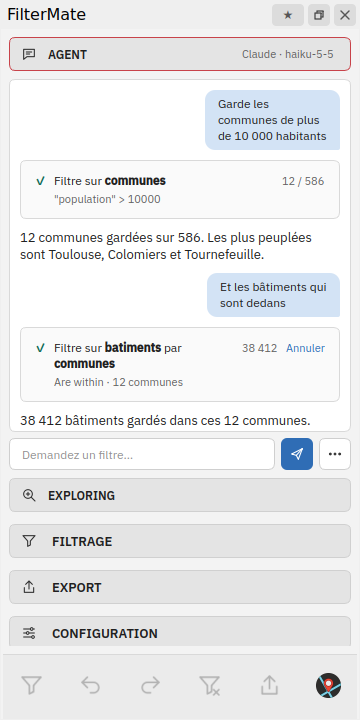
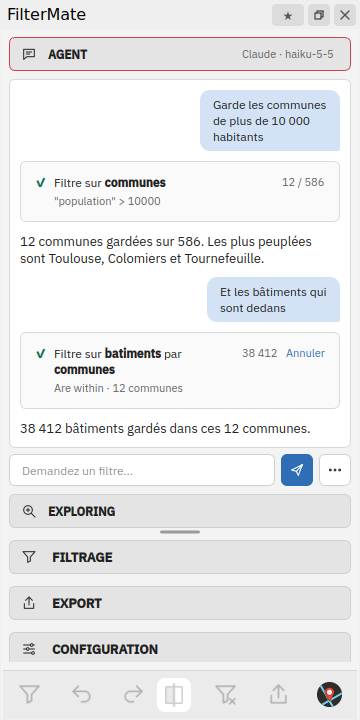
Site and README for 5.1.1: new captures of AGENT (questions, setup), the action bar with Compare
The guide (EN, FR) gains the questions with choices, the setup with the agent, your own
skills and Compare in the action bar; agent-chat and agent-history retaken. The captures
come from the GUI smoke without a screen (FM_BOARDS, qgis/qgis:ltr, --lang en and fr),
which gains the Question and Setup boards and the action bar after a filter. Its check of
the setup menu no longer depends on the language (it failed with --lang fr).

diff --git a/website/guide.fr.html b/website/guide.fr.html
@@ -69,7 +69,7 @@
 <main class="content" id="main">
 
 <header class="hero">
-    <span class="section-label">Guide utilisateur de FilterMate 5.1</span>
+    <span class="section-label">Guide utilisateur de FilterMate 5.1.1</span>
     <div class="band band-hero">
         <video class="sheet-video" muted loop playsinline preload="none" poster="video/hero.webp" data-src="video/hero.mp4" aria-hidden="true"></video>
         <div class="sheet-scrim"></div>
@@ -168,7 +168,7 @@
         <tr><td><strong>Badges de la barre de titre</strong></td><td>Les favoris, le détachement et la fermeture sont des badges de la barre de titre du panneau. Le bouton &#9733; ouvre le menu des favoris ; il passe à l'orange dès que des favoris sont enregistrés. Un bouton à côté replie EXPLORING. L'étiquette colorée de la source, dans la fiche de la couche, indique le type de la couche courante et ce qui la lit : le backend pour une couche vecteur (PostgreSQL, Spatialite, OGR, Memory), le fournisseur pour un raster ou un nuage de points. Par exemple <span class="badge" style="background:#6cb4ee;color:#141414;">Vector · Spatialite</span> <span class="badge" style="background:#f0b35a;color:#141414;">Raster · GDAL</span> <span class="badge" style="background:#5ad6a5;color:#141414;">Point cloud · COPC</span>.</td></tr>
         <tr><td><strong>Pile du haut</strong></td><td><strong>Agent</strong>, puis la zone <strong>Exploring</strong>. AGENT est un tchat qui filtre à partir d'une phrase (<a href="#agent">section 14</a>). Exploring sélectionne sur la couche courante, décrite par la fiche en haut de la zone. Pour une couche vecteur : sélection simple, multiple ou par expression, plus une colonne de boutons de navigation. Les rasters et les nuages de points ont leurs propres outils (<a href="#raster-lidar">section 13</a>).</td></tr>
         <tr><td><strong>Pile du bas</strong></td><td>Trois sections repliables : <strong>Filtering</strong>, <strong>Exporting</strong> et <strong>Configuration</strong>.</td></tr>
-        <tr><td><strong>Barre d'actions</strong></td><td>Les six boutons qui agissent réellement : Filter, Undo, Redo, Unfilter, Export, About.</td></tr>
+        <tr><td><strong>Barre d'actions</strong></td><td>Les sept boutons qui agissent réellement : Filter, Undo, Redo, Compare, Unfilter, Export, About.</td></tr>
     </table>
     </div>
 
@@ -192,8 +192,8 @@
                 <figcaption>En-tête : le bouton des favoris et la couche courante, une couche vecteur lue par le backend Spatialite.</figcaption>
             </figure>
             <figure>
-                <img src="img/guide/action-bar.png" alt="La barre d'actions avec Filter, Undo, Redo, Unfilter, Export et About" loading="lazy" width="614" height="119">
-                <figcaption>Barre d'actions après un filtre : Undo est actif, Redo pas encore.</figcaption>
+                <img src="img/guide/action-bar.png" alt="La barre d'actions avec Filter, Undo, Redo, Compare, Unfilter, Export et About" loading="lazy" width="357" height="49">
+                <figcaption>Barre d'actions après un filtre : Undo est actif, Redo pas encore, Compare est enclenché.</figcaption>
             </figure>
         </div>
     </div>
@@ -406,8 +406,8 @@ AND ST_Intersects("geom",
 <section id="actions">
     <h2><span class="num">7</span>Barre d'actions, annulation et historique</h2>
     <figure>
-        <img src="img/guide/action-bar.png" alt="Les six boutons d'action" loading="lazy" width="614" height="119">
-        <figcaption>De gauche à droite : Filter, Undo, Redo, Unfilter, Export, About.</figcaption>
+        <img src="img/guide/action-bar.png" alt="Les sept boutons d'action" loading="lazy" width="357" height="49">
+        <figcaption>De gauche à droite : Filter, Undo, Redo, Compare (actif ici), Unfilter, Export, About.</figcaption>
     </figure>
     <div class="table-wrap">
     <table>
@@ -415,6 +415,7 @@ AND ST_Intersects("geom",
         <tr><td><strong>Filter</strong></td><td>Construit et applique le filtre décrit par la zone Exploring et l'onglet Filtering.</td></tr>
         <tr><td><strong>Undo</strong></td><td>Restaure l'état de filtre précédent des couches concernées. L'historique est propre à chaque projet et survit à un redémarrage de QGIS. Tant qu'AGENT est ouvert, Undo et Redo parcourent plutôt les tours de l'agent (<a href="#agent">section 14</a>).</td></tr>
         <tr><td><strong>Redo</strong></td><td>Réapplique un filtre que vous venez d'annuler.</td></tr>
+        <tr><td><strong>Compare</strong> <small>(5.1.1)</small></td><td>Montre la carte telle qu'elle était avant le dernier filtre à gauche d'une ligne qui suit la souris, et la carte actuelle à sa droite : ce qu'Undo ramènerait. Disponible quand Undo l'est ; un second clic en sort. Choisir un autre outil de carte, Filter, Undo, Redo, Unfilter, une autre couche ou un autre projet met fin à la comparaison.</td></tr>
         <tr><td><strong>Unfilter</strong></td><td>Retire le filtre FilterMate de la couche source et de ses cibles, sans toucher aux autres couches. Contrairement à Undo, il ne remonte pas l'historique.</td></tr>
         <tr><td><strong>Export</strong></td><td>Lance l'export configuré dans l'onglet Exporting.</td></tr>
         <tr><td><strong>About</strong></td><td>Ouvre le site web de FilterMate dans votre navigateur.</td></tr>
@@ -534,7 +535,7 @@ AND ST_Intersects("geom",
         <tr><td><code>LANGUAGE</code></td><td>auto ou l'une des 34 langues</td><td><em>auto</em> suit la langue de QGIS. L'interface se retraduit sans redémarrage.</td></tr>
         <tr><td><code>UI_PROFILE</code></td><td>auto / compact / normal / hidpi</td><td>Taille des contrôles, appliquée aussitôt et au démarrage. <em>auto</em> se base sur l'écran de la fenêtre QGIS et sa mise à l'échelle : une hauteur utile sous 800 pixels logiques donne <em>compact</em>, quelle que soit l'échelle. Forcez <em>hidpi</em> sur un écran 4K si les contrôles paraissent petits.</td></tr>
         <tr><td><code>DOCK_POSITION</code></td><td>left / right / top / bottom</td><td>Côté où le panneau s'ancre à l'ouverture.</td></tr>
-        <tr><td><code>ACTION_BAR_POSITION</code></td><td>top / bottom / left / right</td><td>Position des six boutons d'action.</td></tr>
+        <tr><td><code>ACTION_BAR_POSITION</code></td><td>top / bottom / left / right</td><td>Position des boutons d'action.</td></tr>
         <tr><td><code>ACTIVE_THEME</code></td><td>auto / default / dark / light</td><td><em>auto</em> suit le thème de QGIS.</td></tr>
         <tr><td><code>feature_picker_limit</code></td><td>nombre, 1000 par défaut</td><td>Nombre maximal de lignes chargées dans la liste de sélection multiple.</td></tr>
         <tr><td><code>AGENT</code></td><td>true / false</td><td>Affiche la section AGENT (<code>enabled</code> sous <code>APP.OPTIONS.AGENT</code>). Active par défaut. L'activer affiche la section à la prochaine ouverture du panneau ; la désactiver la masque après un redémarrage de QGIS.</td></tr>
@@ -892,6 +893,35 @@ processing.run("filtermate:batch_filter", {
         <img src="img/guide/agent-chat-fr.png" alt="AGENT ouvert au-dessus de la section EXPLORING repliée : deux demandes, chacune avec une carte de filtre qui donne les entités gardées" loading="lazy" width="360" height="720">
         <figcaption>Deux demandes et leurs cartes : chaque filtre nomme ses couches et donne les entités gardées ; <em>Annuler</em> sur la dernière carte la reprend. AGENT partage la pile du haut avec EXPLORING, replié ici.</figcaption>
     </figure>
+
+    <h3>Il demande quand le choix vous revient <small>(5.1.1)</small></h3>
+    <p>
+        Quand une décision vous revient et que ses choix peuvent être nommés (quelle couche, quel rendu), l'agent ne devine pas et n'écrit pas une question à laquelle répondre au clavier.
+        Une carte montre une à quatre questions, chacune avec deux à quatre choix, le choix recommandé en premier, et toujours un <em>Autre</em> à remplir avec vos mots. <strong>Répondre</strong> renvoie vos choix et la demande continue dans le même tour.
+        Fermer la carte ne répond rien : l'agent dit alors ce qu'il aurait fait. Une réponse décide quoi faire, elle n'autorise rien : un changement qui suit est demandé comme le veut votre niveau d'autonomie.
+    </p>
+
+    <figure class="narrow">
+        <img src="img/guide/agent-question-fr.png" alt="Une carte de questions dans le fil d'AGENT : laquelle de deux couches de routes mettre en valeur, puis quoi montrer, avec des choix à cocher et un champ Autre" loading="lazy" width="360" height="900">
+        <figcaption>Une demande avec deux couches possibles : l'agent demande laquelle, et quoi montrer, avant de changer quoi que ce soit.</figcaption>
+    </figure>
+
+    <h3>Configurer FilterMate avec l'agent <small>(5.1.1)</small></h3>
+    <p>
+        À la première ouverture d'une nouvelle version, AGENT propose une fois de configurer FilterMate. L'agent regarde ce que contient le projet, pose quelques questions (ce que vous en faites, votre écran, la langue et l'apparence, vos données), puis propose les réglages, chacun montré avant et après. Rien ne change avant votre clic sur <strong>Appliquer</strong>, et le changement s'annule comme toute autre étape.
+        Relancez-la quand vous voulez par le menu <em>Vecteur &gt; FilterMate &gt; Configurer FilterMate avec l'agent</em>, ou par le menu <strong>&#8943;</strong> du panneau. Vous pouvez aussi simplement demander : ce que fait un réglage, le thème sombre, pourquoi vos filtres sont lents.
+    </p>
+
+    <figure class="narrow">
+        <img src="img/guide/agent-setup-fr.png" alt="La proposition de configurer FilterMate avec l'agent : ce qu'elle couvre, avec les boutons Démarrer et Plus tard" loading="lazy" width="360" height="640">
+        <figcaption>La proposition, montrée une fois par version : <em>Démarrer</em> lance les questions, <em>Plus tard</em> la laisse au menu.</figcaption>
+    </figure>
+
+    <h3>Vos propres skills <small>(5.1.1)</small></h3>
+    <p>
+        Une équipe peut écrire ses propres consignes pour l'agent (comment nommer les couches, quelles sources utiliser, les étapes d'une livraison) sous forme de skill : un dossier contenant un <code>SKILL.md</code>, dans <code>FilterMate/skills</code> de votre profil QGIS ou dans <code>filtermate_skills</code> à côté d'un projet.
+        Avant que l'agent en suive un pour la première fois, vous le lisez en entier et l'autorisez, et la question revient quand il change. Un skill ne donne aucun droit à l'agent : chaque changement reste demandé comme le veulent vos réglages.
+    </p>
 
     <h3>Les filtres s'appliquent aussitôt, chaque étape s'annule</h3>
     <ul>

diff --git a/website/guide.html b/website/guide.html
@@ -69,7 +69,7 @@
 <main class="content" id="main">
 
 <header class="hero">
-    <span class="section-label">User guide for FilterMate 5.1</span>
+    <span class="section-label">User guide for FilterMate 5.1.1</span>
     <div class="band band-hero">
         <video class="sheet-video" muted loop playsinline preload="none" poster="video/hero.webp" data-src="video/hero.mp4" aria-hidden="true"></video>
         <div class="sheet-scrim"></div>
@@ -169,7 +169,7 @@
         <tr><td><strong>Title bar badges</strong></td><td>Favorites, detach and close are badges of the panel's title bar. The &#9733; button opens the favorites menu; it turns amber once favorites are saved. A button next to it folds EXPLORING. The colored source tag of the layer card shows the kind of the current layer and what reads it: the backend for a vector layer (PostgreSQL, Spatialite, OGR, Memory), the provider for a raster or a point cloud. For example <span class="badge" style="background:#6cb4ee;color:#141414;">Vector · Spatialite</span> <span class="badge" style="background:#f0b35a;color:#141414;">Raster · GDAL</span> <span class="badge" style="background:#5ad6a5;color:#141414;">Point cloud · COPC</span>.</td></tr>
         <tr><td><strong>Upper stack</strong></td><td><strong>Agent</strong>, then the <strong>Exploring</strong> zone. AGENT is a chat that filters from a sentence (<a href="#agent">section 14</a>). Exploring selects on the current layer, described by the card at the top. For a vector layer: single, multiple or expression-based selection, plus a vertical rail of navigation buttons. Rasters and point clouds get their own tools (<a href="#raster-lidar">section 13</a>).</td></tr>
         <tr><td><strong>Lower stack</strong></td><td>Three collapsible sections: <strong>Filtering</strong>, <strong>Exporting</strong> and <strong>Configuration</strong>.</td></tr>
-        <tr><td><strong>Action bar</strong></td><td>The six buttons that actually do something: Filter, Undo, Redo, Unfilter, Export, About.</td></tr>
+        <tr><td><strong>Action bar</strong></td><td>The seven buttons that actually do something: Filter, Undo, Redo, Compare, Unfilter, Export, About.</td></tr>
     </table>
     </div>
 
@@ -193,8 +193,8 @@
                 <figcaption>Header: the favorites button and the current layer, a vector layer read by the Spatialite backend.</figcaption>
             </figure>
             <figure>
-                <img src="img/guide/action-bar.png" alt="The action bar with Filter, Undo, Redo, Unfilter, Export and About" loading="lazy" width="614" height="119">
-                <figcaption>Action bar after a filter: Undo is enabled, Redo is not yet.</figcaption>
+                <img src="img/guide/action-bar.png" alt="The action bar with Filter, Undo, Redo, Compare, Unfilter, Export and About" loading="lazy" width="357" height="49">
+                <figcaption>Action bar after a filter: Undo is enabled, Redo is not yet, Compare is on.</figcaption>
             </figure>
         </div>
     </div>
@@ -407,8 +407,8 @@ AND ST_Intersects("geom",
 <section id="actions">
     <h2><span class="num">7</span>Action bar, undo and history</h2>
     <figure>
-        <img src="img/guide/action-bar.png" alt="The six action buttons" loading="lazy" width="614" height="119">
-        <figcaption>From left to right: Filter, Undo, Redo, Unfilter, Export, About.</figcaption>
+        <img src="img/guide/action-bar.png" alt="The seven action buttons" loading="lazy" width="357" height="49">
+        <figcaption>From left to right: Filter, Undo, Redo, Compare (on here), Unfilter, Export, About.</figcaption>
     </figure>
     <div class="table-wrap">
     <table>
@@ -416,6 +416,7 @@ AND ST_Intersects("geom",
         <tr><td><strong>Filter</strong></td><td>Builds and applies the filter described by the Exploring zone and the Filtering tab.</td></tr>
         <tr><td><strong>Undo</strong></td><td>Restores the previous filter state of the affected layers. The history is per project and survives a restart of QGIS. While AGENT is open, Undo and Redo walk the turns of the agent instead (<a href="#agent">section 14</a>).</td></tr>
         <tr><td><strong>Redo</strong></td><td>Re-applies a filter you just undid.</td></tr>
+        <tr><td><strong>Compare</strong> <small>(5.1.1)</small></td><td>Shows the map as it was before the last filter on the left of a line that follows the mouse, and the map as it is on its right: what Undo would bring back. Available when Undo is; click it again to leave. Choosing another map tool, Filter, Undo, Redo, Unfilter, another layer or another project ends the comparison.</td></tr>
         <tr><td><strong>Unfilter</strong></td><td>Removes FilterMate's filter from the source layer and its targets, leaving other layers alone. Unlike Undo, it does not step back through history.</td></tr>
         <tr><td><strong>Export</strong></td><td>Runs the export configured in the Exporting tab.</td></tr>
         <tr><td><strong>About</strong></td><td>Opens the FilterMate website in your browser.</td></tr>
@@ -535,7 +536,7 @@ AND ST_Intersects("geom",
         <tr><td><code>LANGUAGE</code></td><td>auto or one of 34 locales</td><td><em>auto</em> follows the QGIS locale. The interface retranslates without restart.</td></tr>
         <tr><td><code>UI_PROFILE</code></td><td>auto / compact / normal / hidpi</td><td>Widget sizes, applied at once and at startup. <em>auto</em> picks from the screen of the QGIS window and its scaling: a usable height under 800 logical pixels selects <em>compact</em> whatever the scaling. Force <em>hidpi</em> on 4K displays if controls look small.</td></tr>
         <tr><td><code>DOCK_POSITION</code></td><td>left / right / top / bottom</td><td>Where the panel docks when opened.</td></tr>
-        <tr><td><code>ACTION_BAR_POSITION</code></td><td>top / bottom / left / right</td><td>Position of the six action buttons.</td></tr>
+        <tr><td><code>ACTION_BAR_POSITION</code></td><td>top / bottom / left / right</td><td>Position of the action buttons.</td></tr>
         <tr><td><code>ACTIVE_THEME</code></td><td>auto / default / dark / light</td><td><em>auto</em> follows the QGIS theme.</td></tr>
         <tr><td><code>feature_picker_limit</code></td><td>number, default 1000</td><td>Maximum rows loaded in the multiple-selection list.</td></tr>
         <tr><td><code>AGENT</code></td><td>true / false</td><td>Shows the AGENT section (<code>enabled</code> under <code>APP.OPTIONS.AGENT</code>). On by default. Turning it on shows the section the next time the panel opens; turning it off hides it after QGIS restarts.</td></tr>
@@ -893,6 +894,35 @@ processing.run("filtermate:batch_filter", {
         <img src="img/guide/agent-chat.png" alt="AGENT open above the folded EXPLORING section: two requests, each with a filter card that gives the features kept" loading="lazy" width="360" height="720">
         <figcaption>Two requests and their cards: each filter names its layers and gives the features it kept; <em>Undo</em> on the last card takes it back. AGENT shares the upper stack with EXPLORING, folded here.</figcaption>
     </figure>
+
+    <h3>It asks when the choice is yours <small>(5.1.1)</small></h3>
+    <p>
+        When a decision is yours and its choices can be named (which layer, which look), the agent does not guess and does not write a question for you to answer by typing.
+        A card shows one to four questions, each with two to four choices, the recommended one first, and always an <em>Other</em> in your own words. <strong>Answer</strong> sends your choices back and the request goes on in the same turn.
+        Closing the card answers nothing: the agent then says what it would have done. An answer decides what to do, it never authorizes it: a change that follows is asked as your level of autonomy says.
+    </p>
+
+    <figure class="narrow">
+        <img src="img/guide/agent-question.png" alt="A question card in the AGENT thread: which of two road layers to style, then what to show, with choices to tick and an Other field" loading="lazy" width="360" height="900">
+        <figcaption>A request with two possible layers: the agent asks which one, and what to show, before it changes anything.</figcaption>
+    </figure>
+
+    <h3>Set FilterMate up with the agent <small>(5.1.1)</small></h3>
+    <p>
+        The first time a new version opens, AGENT offers once to set FilterMate up. The agent looks at what the project holds, asks a few questions (what you do with it, your screen, language and look, your data), then proposes the settings, each shown before and after. Nothing changes until you click <strong>Apply</strong>, and the change is undone like any other step.
+        Start it again at any time from the menu <em>Vector &gt; FilterMate &gt; Set up FilterMate with the agent</em>, or from the <strong>&#8943;</strong> menu of the panel. You can also simply ask: what a setting does, the dark theme, why your filters are slow.
+    </p>
+
+    <figure class="narrow">
+        <img src="img/guide/agent-setup.png" alt="The offer to set FilterMate up with the agent: what it covers, with the Start and Not now buttons" loading="lazy" width="360" height="640">
+        <figcaption>The offer, shown once per version: <em>Start</em> begins the questions, <em>Not now</em> leaves it to the menu.</figcaption>
+    </figure>
+
+    <h3>Your own skills <small>(5.1.1)</small></h3>
+    <p>
+        A team can write its own instructions for the agent (how it names layers, which sources to use, the steps of a delivery) as a skill: a folder holding a <code>SKILL.md</code>, in <code>FilterMate/skills</code> of your QGIS profile or in <code>filtermate_skills</code> next to a project.
+        Before the agent follows one for the first time, you read all of it and allow it, and you are asked again when it changes. A skill gives the agent no right: every change stays asked as your settings say.
+    </p>
 
     <h3>Filters apply at once, and each step can be undone</h3>
     <ul>

diff --git a/tests/qgis_headless/run_gui_smoke.py b/tests/qgis_headless/run_gui_smoke.py
@@ -694,11 +694,12 @@ def s_agent_setup_offer_check():
     first = chat.offer_setup_once('smoke-9.9.9')
     second = chat.offer_setup_once('smoke-9.9.9')
     cards = len(chat._settings_cards)
-    shown = cards >= 1 and 'Set FilterMate up with the agent?' in chat.panel.thread.toPlainText()
+    controller = importlib.import_module(f'{PACKAGE}.ui.controllers.agent_chat_controller')
+    shown = cards >= 1 and controller._tr('Set FilterMate up with the agent?') in chat.panel.thread.toPlainText()
     plugin = qgis.utils.plugins[PACKAGE]
     entries = [action.text() for action in plugin.actions]
     check('setup with the agent: offered once per version, in the QGIS menu and the panel menu',
-          first is True and second is False and bool(shown) and len(chat._settings_cards) == before + 1 and 'Set up FilterMate with the agent' in entries
+          first is True and second is False and bool(shown) and len(chat._settings_cards) == before + 1 and plugin.tr('Set up FilterMate with the agent') in entries
           and chat.panel.setup_action is not None, f"first={first} second={second} entries={entries}")
     chat.new_conversation()  # the checks of the AGENT section that follow expect its welcome
     return waits(0.2)
@@ -823,6 +824,9 @@ def s_compare_check():
     check('compare: on after a filter, the source and the dem drawn as they were', button.isChecked()
           and layer('dem').id() in compared and source is not None and source.id() in compared
           and canvas.mapTool() is session.tool, f"checked={button.isChecked()} compared={compared}")
+    if os.environ.get('FM_BOARDS'):  # the action bar of the guide: after a filter, Compare on
+        QApplication.processEvents()
+        d.frame_actions.grab().save(os.path.join(os.environ['FM_BOARDS'], 'ActionBar.png'))
     STATE['compare_session'] = session
     STATE['compare_previous_tool'] = previous
     return lambda: session is None or session.renders >= 1
@@ -1557,6 +1561,14 @@ BOARD_TEXTS = {
         'parcels': "Les parcelles de plus d'un hectare",
         'select_roads': 'Sélection de 3 routes',
         'which_layers': 'Quelles couches contient ce projet ?',
+        'style_roads': 'Mets les routes en valeur sur la carte',
+        'questions': [
+            {'header': 'Couche', 'question': 'Deux couches portent des routes. Laquelle mettre en valeur ?',
+             'options': [{'label': 'troncon_de_route (recommandé)', 'description': 'BD TOPO, 48 210 tronçons'},
+                         {'label': 'routes_departementales', 'description': '312 tronçons'}]},
+            {'header': 'Rendu', 'question': 'Que faut-il montrer ?', 'multi_select': True,
+             'options': [{'label': 'Une couleur par importance'}, {'label': 'Le nom des routes'},
+                         {'label': 'Une largeur selon le nombre de voies'}]}],
     },
     'en': {
         'communes': 'Keep the communes of more than 10,000 people',
@@ -1572,6 +1584,14 @@ BOARD_TEXTS = {
         'parcels': 'The parcels larger than one hectare',
         'select_roads': 'Selection of 3 roads',
         'which_layers': 'Which layers does this project hold?',
+        'style_roads': 'Make the roads stand out on the map',
+        'questions': [
+            {'header': 'Layer', 'question': 'Two layers hold roads. Which one should stand out?',
+             'options': [{'label': 'troncon_de_route (recommended)', 'description': 'BD TOPO, 48,210 sections'},
+                         {'label': 'routes_departementales', 'description': '312 sections'}]},
+            {'header': 'Look', 'question': 'What should it show?', 'multi_select': True,
+             'options': [{'label': 'A colour by importance'}, {'label': 'The names of the roads'},
+                         {'label': 'A width by number of lanes'}]}],
     },
 }
 
@@ -1642,6 +1662,29 @@ def capture_boards(d, chat, folder):
     panel.show_history()
     shot('History')
     panel.show_thread()
+    # The cards of the thread: the questions of ask_user, then the offer to set FilterMate up.
+    controller = importlib.import_module(f'{PACKAGE}.ui.controllers.agent_chat_controller')
+    parse_questions = importlib.import_module(f'{PACKAGE}.core.agent.questions').parse_questions
+    d.resize(int(os.environ.get('FM_BOARD_W', '360')), 900)  # the whole card, down to its Answer button
+    panel.clear_thread()
+    panel.add_user(t['style_roads'])
+    panel.add_question_card({'other': controller._tr('Other'), 'answer': controller._tr('Answer'),
+                             'no_answer': controller._tr('No answer'),
+                             'close': controller._tr('Close without answering')}, parse_questions(t['questions']))
+    panel.show_thread()
+    shot('Question')
+    panel.clear_thread()
+    d.resize(int(os.environ.get('FM_BOARD_W', '360')), 640)
+    chat._show_setup_offer()
+    panel.show_thread()
+    QApplication.processEvents()
+    bar = panel.thread.verticalScrollBar() if hasattr(panel.thread, 'verticalScrollBar') else None
+    if bar is not None:
+        bar.setValue(bar.minimum())  # from its heading
+    shot('Setup')
+    chat._settings_cards.clear()
+    chat._setup_card = None
+    panel.clear_thread()
     settings = importlib.import_module(f'{PACKAGE}.adapters.agent.settings')
     load_settings, target_of = settings.load_settings, settings.target_of
     AgentSettingsDialog = importlib.import_module(f'{PACKAGE}.ui.widgets.agent_panel').AgentSettingsDialog

diff --git a/README.md b/README.md
@@ -24,6 +24,15 @@ exports from a request, with the model you choose.
 </p>
 <p align="center"><em>The panel follows the current layer: several vector features ticked, a raster with its histogram, a LiDAR point cloud.</em></p>
 
+<p align="center">
+  <img src="website/img/guide/agent-chat.png?v=5" alt="AGENT: two requests in a sentence, each with a filter card that gives the features kept" width="260">
+  &nbsp;
+  <img src="website/img/guide/agent-question.png?v=5" alt="AGENT asks which of two road layers is meant and what to show, with choices to click" width="260">
+  &nbsp;
+  <img src="website/img/guide/agent-setup.png?v=5" alt="AGENT offers to set FilterMate up: look, data, what the agent may do alone" width="260">
+</p>
+<p align="center"><em>AGENT (experimental): a request in a sentence and its filters, a question with choices when the decision is yours, and the offer to set FilterMate up.</em></p>
+
 🌐 [Website](https://imagodata.github.io/filter_mate) ·
 📖 [User guide](https://imagodata.github.io/filter_mate/guide.html) ·
 🇫🇷 [Guide utilisateur](https://imagodata.github.io/filter_mate/guide.fr.html) ·
@@ -66,7 +75,9 @@ the original source back, and project files are always saved with the original s
   OpenAI or any compatible server, a local Ollama model (the settings help to install it and to download a model). Filters apply at once
   and each step can be undone; exports and added or removed layers are confirmed. You choose how far it goes alone
   (four levels of autonomy, a rule per tool, layers it must never change). Recipes keep a request in the project and run
-  it again without any model, or by themselves each time the edits of their source are saved. An expert mode, off by default, lets it run Python code in QGIS, shown and confirmed at each run and not undone. Optional sources: open data portals,
+  it again without any model, or by themselves each time the edits of their source are saved. When a choice is yours
+  it asks with choices to click; it sets FilterMate up with you (offered once per version, and from the menu
+  Vector > FilterMate); a team can give it its own skills, a `SKILL.md` you read and allow first. An expert mode, off by default, lets it run Python code in QGIS, shown and confirmed at each run and not undone. Optional sources: open data portals,
   WFS services, Sentinel-2 scenes, remote MCP connectors. A built-in MCP server lets Claude Code or another client on
   your computer use the same tools ([docs/AGENT_MODE.md](docs/AGENT_MODE.md)).
 - 🎯 **Pipettes on the map**: similar pixels, the clicked object or every similar object on a raster, a value condition
@@ -76,7 +87,8 @@ the original source back, and project files are always saved with the original s
   polygon layer, or are drawn from a layer of points or footprints in Processing ([docs/SEGMENTATION.md](docs/SEGMENTATION.md)).
 - ✏ **Zone on the map**: draw a rectangle, polygon, freehand shape or circle; on a vector layer it selects the features it touches, on a raster it keeps the pixels inside it, on a point cloud it cuts the targets.
 - 🎨 **Raster bands**: tick the bands that drive the pipette and the value range, and display one in grey or up to three as a colour composite (false colour included).
-- ↩ **Undo / Redo** of every filter, per layer, and a global history.
+- ↩ **Undo / Redo** of every filter, per layer, and a global history. **Compare** shows the map before and after the
+  last filter, on each side of a line that follows the mouse.
 - ⭐ **Favorites**: save a filter with its layers and settings, replay it in a click, share it with a team through a git
   repository ([docs/favorites_sharing/USER_GUIDE.md](docs/favorites_sharing/USER_GUIDE.md)).
 - ⚙ **Automation**: ten Processing algorithms and four ready-made models, `qgis_process`, a Python API for scripts and
